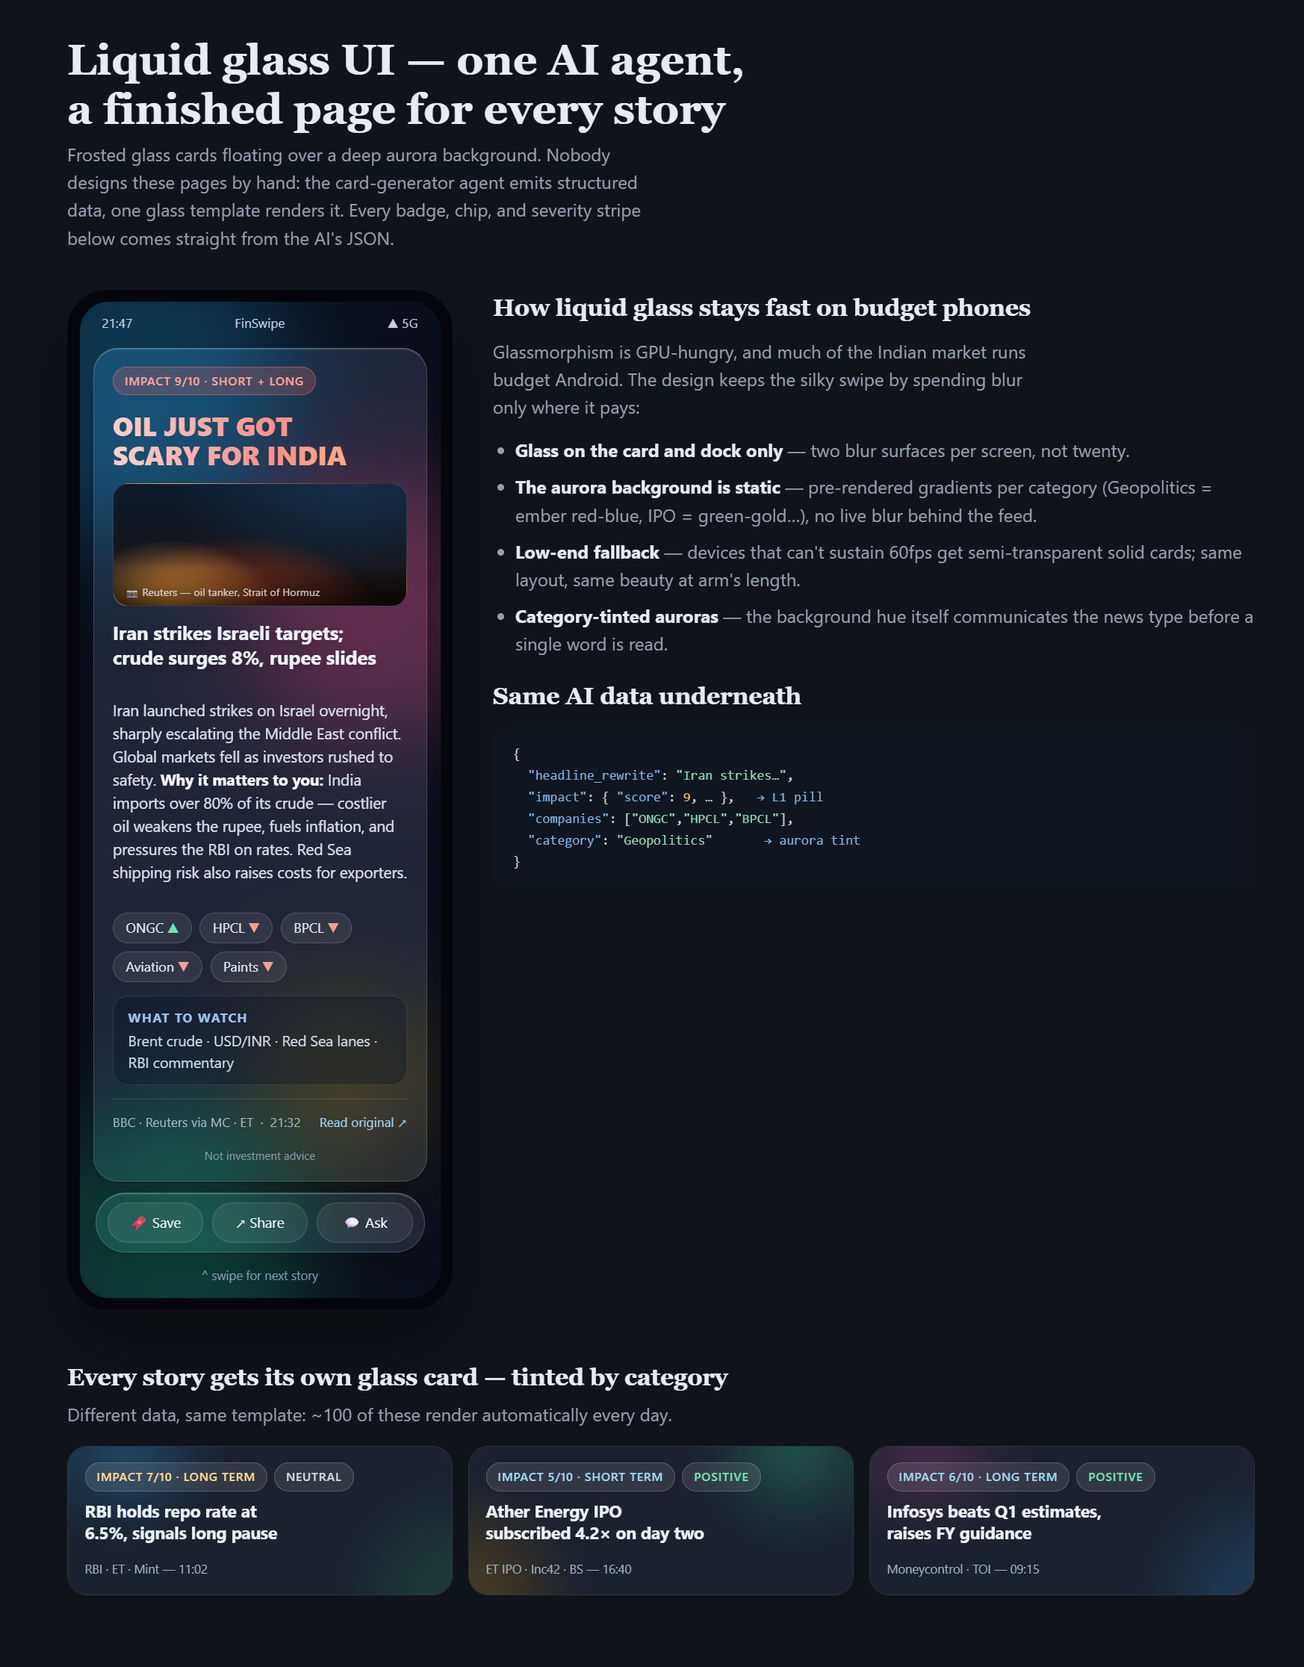
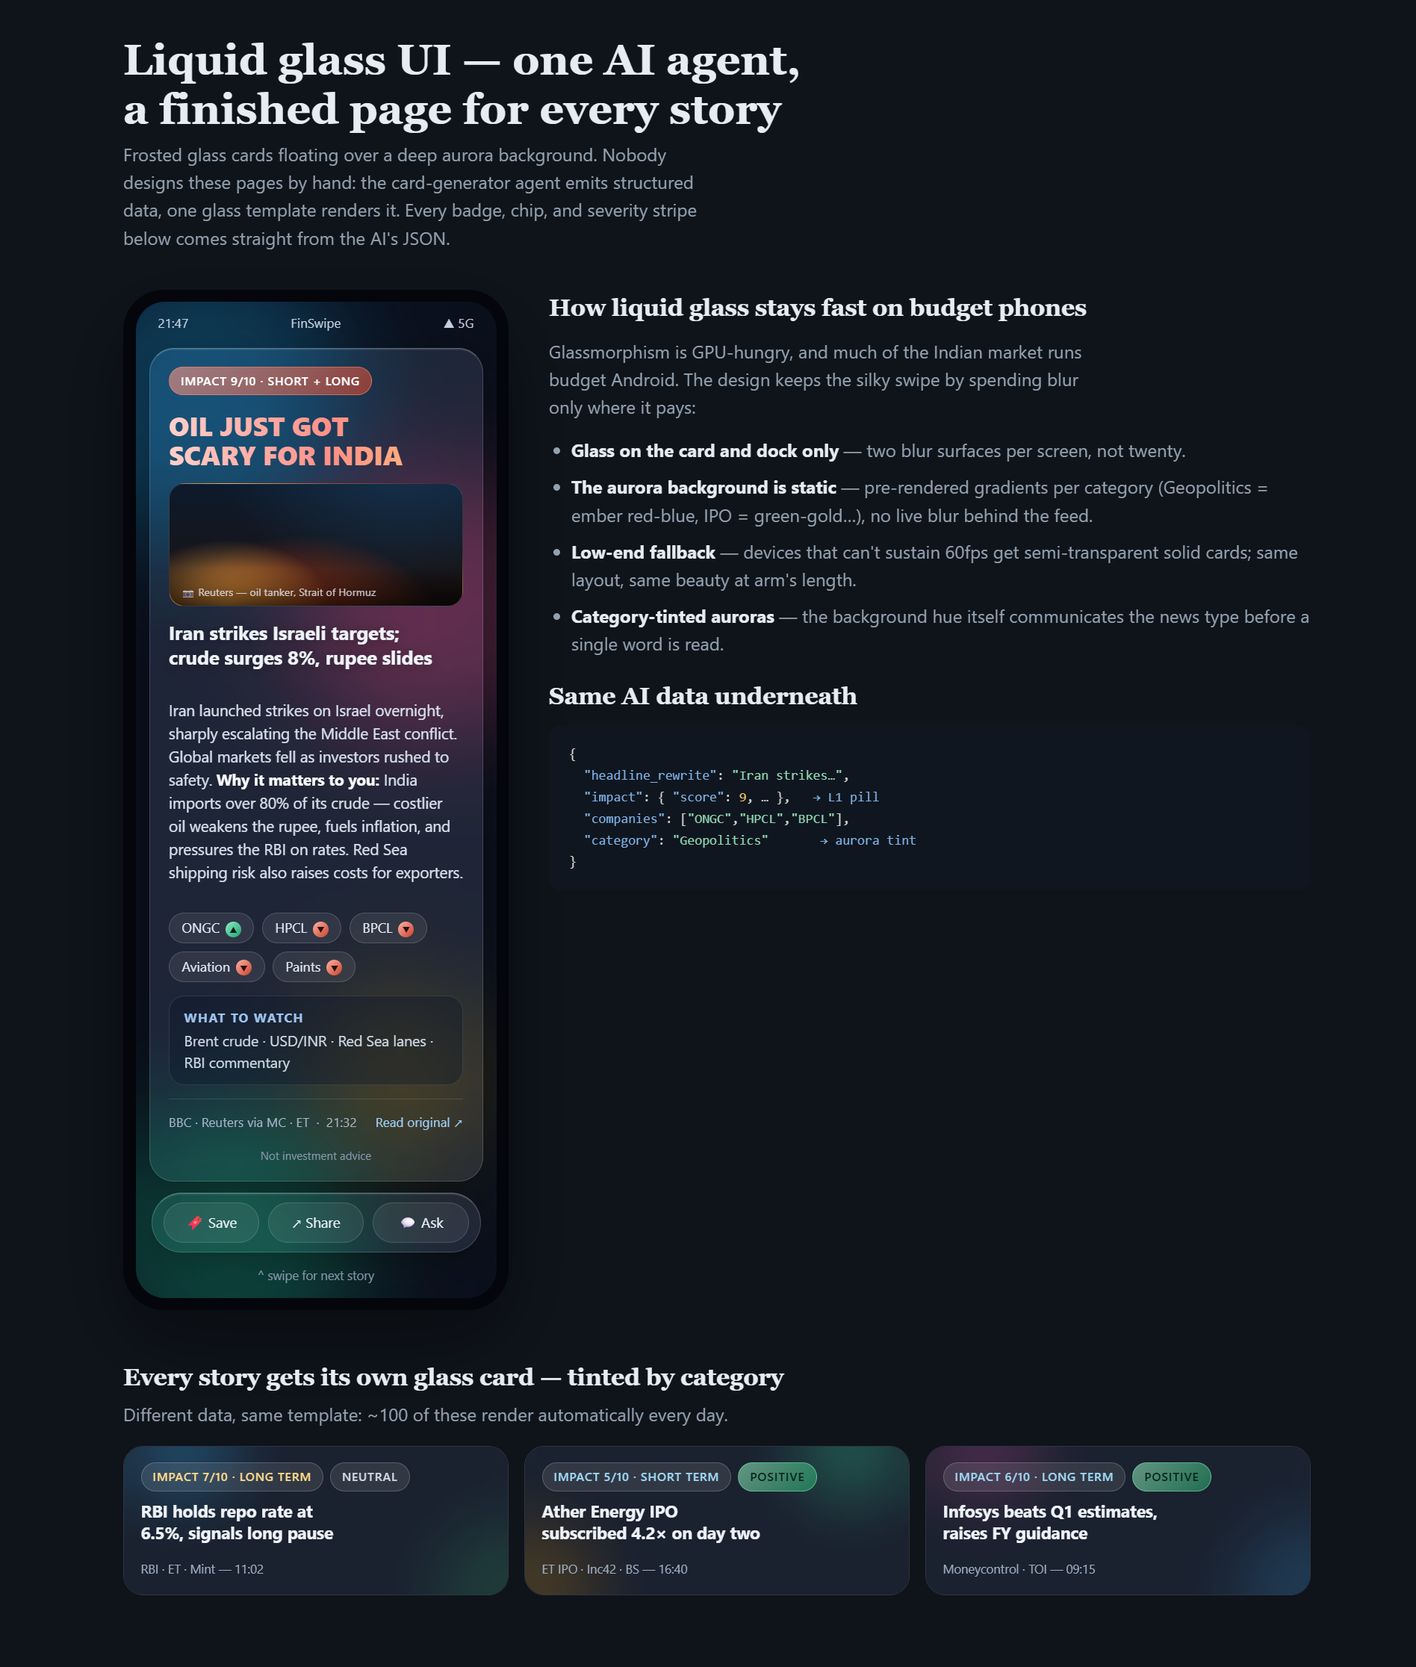
Add red/green gradient for market direction and on/off state to glass and minimal designs
Fixes a background-clip:text bug in the minimal design where the background
shorthand was resetting background-clip, rendering gradient text as solid
opaque blocks instead of colored glyphs. Switched to background-image.

diff --git a/docs/mockups/finswipe-minimal-mockup.html b/docs/mockups/finswipe-minimal-mockup.html
@@ -16,6 +16,7 @@
   :root[data-theme="light"]{ --paper:#F0F1ED; --paper-raised:#FFFFFF; --ink:#14181A; --ink-soft:#5B655F;
            --line:#D7DBD3; --accent:#1F5C4E; --accent-soft:#E6EEEA;
            --positive:#2F6B3A; --negative:#8A3324; }
+  :root{ --pos-a:#3FAE7C; --pos-b:#1f6e4e; --neg-a:#e0684a; --neg-b:#a83a24; }
 
   *{box-sizing:border-box}
   body{background:var(--paper); color:var(--ink); margin:0; padding:36px 22px 70px;
@@ -40,9 +41,14 @@
   .caption{text-align:center; color:var(--ink-soft); font-size:12px; margin-top:9px}
 
   /* ledger card (the story) */
-  .tick{border-left:3px solid var(--negative)}
+  .tick{position:relative}
+  .tick::before{content:""; position:absolute; left:0; top:2px; bottom:4px; width:3px;
+                background:linear-gradient(180deg, var(--neg-a), var(--neg-b))}
   .card{margin:2px 12px 10px; padding:12px 2px 4px; display:flex; flex-direction:column; gap:9px}
   .meta-row{font-size:10px; letter-spacing:.06em; text-transform:uppercase; color:var(--ink-soft); padding-left:9px}
+  .grad-txt{font-weight:800; -webkit-background-clip:text; background-clip:text; color:transparent}
+  .grad-txt.pos{background-image:linear-gradient(90deg, var(--pos-a), var(--pos-b))}
+  .grad-txt.neg{background-image:linear-gradient(90deg, var(--neg-a), var(--neg-b))}
   .hook{font-family:"Sitka Text","Iowan Old Style",Georgia,serif; font-size:19px; line-height:1.3;
         font-weight:600; padding-left:9px; margin:0; text-wrap:balance}
   .photo{height:96px; margin-left:9px; margin-right:2px; border:1px solid var(--line); position:relative; overflow:hidden;
@@ -53,7 +59,9 @@
   .summary{color:var(--ink-soft); font-size:12px; padding-left:9px}
   .summary b{color:var(--ink); font-weight:600}
   .chipline{padding-left:9px; font-size:11.5px; color:var(--ink-soft)}
-  .chipline .up{color:var(--positive)} .chipline .dn{color:var(--negative)}
+  .chipline .up, .chipline .dn{-webkit-background-clip:text; background-clip:text; color:transparent; font-weight:700}
+  .chipline .up{background-image:linear-gradient(90deg, var(--pos-a), var(--pos-b))}
+  .chipline .dn{background-image:linear-gradient(90deg, var(--neg-a), var(--neg-b))}
   .watch{margin:2px 9px 0; padding-top:9px; border-top:1px solid var(--line)}
   .watch b{display:block; font-size:10px; letter-spacing:.08em; text-transform:uppercase; color:var(--ink-soft); margin-bottom:4px; font-weight:600}
   .watch span{font-size:11.5px}
@@ -97,10 +105,11 @@
   .psec b.lab{display:block; font-size:10px; letter-spacing:.08em; text-transform:uppercase; color:var(--ink-soft); margin-bottom:8px; font-weight:600}
   .togrow{display:flex; justify-content:space-between; align-items:center; padding:7px 0; border-top:1px solid var(--line); font-size:12px}
   .togrow:first-of-type{border-top:none}
-  .tog{width:28px; height:15px; border:1px solid var(--line); position:relative}
-  .tog.on{background:var(--accent-soft); border-color:var(--accent)}
-  .tog::after{content:""; position:absolute; top:2px; left:2px; width:9px; height:9px; background:var(--ink-soft)}
-  .tog.on::after{left:auto; right:2px; background:var(--accent)}
+  .tog{width:28px; height:15px; border:1px solid var(--line); position:relative;
+       background:linear-gradient(90deg, var(--neg-a), var(--neg-b)); opacity:.3}
+  .tog.on{background:linear-gradient(90deg, var(--pos-a), var(--pos-b)); opacity:1; border-color:transparent}
+  .tog::after{content:""; position:absolute; top:2px; left:2px; width:9px; height:9px; background:var(--paper-raised)}
+  .tog.on::after{left:auto; right:2px}
   .signout{margin:22px 14px 4px; text-align:center; border:1px solid var(--negative); color:var(--negative); padding:9px 0; font-size:12px}
 
   /* admin */
@@ -110,19 +119,23 @@
   .abar .t{font-family:"Sitka Text","Iowan Old Style",Georgia,serif; font-weight:600; font-size:16px}
   .astatus{display:flex; gap:16px; flex-wrap:wrap; font-size:11.5px; color:var(--ink-soft)}
   .astatus .dot{display:inline-block; width:6px; height:6px; border-radius:50%; margin-right:6px}
-  .ok .dot{background:var(--positive)} .off .dot{background:var(--ink-soft)}
+  .ok .dot{background:linear-gradient(135deg, var(--pos-a), var(--pos-b))}
+  .off .dot{background:linear-gradient(135deg, var(--neg-a), var(--neg-b))}
   .agrid{display:flex; flex-wrap:wrap}
   .aq{flex:2 1 500px; padding:6px 20px 18px}
   .aq h3, .aside h3{font-size:10.5px; letter-spacing:.08em; text-transform:uppercase; color:var(--ink-soft); font-weight:600; margin:16px 0 8px}
   .qrow{display:flex; gap:14px; align-items:center; padding:12px 0; border-top:1px solid var(--line); flex-wrap:wrap}
   .qrow.flagged{background:color-mix(in srgb, var(--negative) 7%, transparent); margin:0 -20px; padding-left:20px; padding-right:20px}
   .qrow .imp{font-size:10.5px; color:var(--ink-soft); white-space:nowrap; min-width:64px}
-  .qrow .imp.hi{color:var(--negative); font-weight:600}
+  .qrow .imp.hi{font-weight:800; -webkit-background-clip:text; background-clip:text; color:transparent;
+                background-image:linear-gradient(90deg, var(--neg-a), var(--neg-b))}
   .qrow .htext{flex:1; min-width:220px; font-size:12.5px}
   .qrow .htext small{display:block; color:var(--ink-soft); font-size:10.5px; margin-top:2px}
   .qbtn{font-size:10.5px; padding:5px 10px; border:1px solid var(--line); color:var(--ink-soft); white-space:nowrap}
-  .qbtn.ap{border-color:var(--accent); color:var(--accent)}
-  .qbtn.rj{border-color:var(--negative); color:var(--negative)}
+  .qbtn.ap{border-color:var(--pos-b); font-weight:700; -webkit-background-clip:text; background-clip:text; color:transparent;
+           background-image:linear-gradient(90deg, var(--pos-a), var(--pos-b))}
+  .qbtn.rj{border-color:var(--neg-b); font-weight:700; -webkit-background-clip:text; background-clip:text; color:transparent;
+           background-image:linear-gradient(90deg, var(--neg-a), var(--neg-b))}
   .aside{flex:1 1 240px; padding:6px 20px 18px; border-left:1px solid var(--line); min-width:240px}
   .stat{display:flex; justify-content:space-between; font-size:12px; padding:5px 0; border-top:1px solid var(--line)}
   .stat:first-of-type{border-top:none}
@@ -134,7 +147,7 @@
 <div class="wrap">
   <p class="eyebrow">Alternate direction</p>
   <h1>FinSwipe, minimalist — a financial ledger, not a lightbox</h1>
-  <p class="sub">Same product, opposite instinct. No blur, no aurora, no colour-by-category. Sentiment reads as a single hairline tick; numbers sit in a monospace column like a statement; the news itself — a serif hook, set quietly — is the only thing asked to carry weight.</p>
+  <p class="sub">Same product, opposite instinct. No blur, no aurora, no colour-by-category. The one exception: a red/green gradient, spent only on market direction and on/off state — a gradient tick, a gradient number, never a filled shape. Numbers sit in a monospace column like a statement; the news itself — a serif hook, set quietly — is the only thing asked to carry weight.</p>
 
   <div class="row">
     <!-- CARD / FEED -->
@@ -142,7 +155,7 @@
       <div class="phone"><div class="screen">
         <div class="statusbar"><span>09:41</span><span>FinSwipe</span><span>5G</span></div>
         <div class="card tick">
-          <div class="meta-row mono">Impact 9/10 · Short + Long</div>
+          <div class="meta-row mono"><span class="grad-txt neg">Impact 9/10</span> · Short + Long</div>
           <p class="hook">Oil just got scary for India.</p>
           <div class="photo"></div>
           <p class="headline">Iran strikes Israeli targets; crude surges 8%, rupee slides</p>
@@ -189,10 +202,10 @@
         <div class="apphead"><span class="t">Saved</span><span class="n mono">12 stories</span></div>
         <div class="search">Search your saved news…</div>
         <div>
-          <div class="srow"><div class="h">Oil just got scary for India</div><div class="m mono"><span>Impact 9/10</span><span>BBC · ET — 21:32</span></div></div>
+          <div class="srow"><div class="h">Oil just got scary for India</div><div class="m mono"><span class="grad-txt neg">Impact 9/10</span><span>BBC · ET — 21:32</span></div></div>
           <div class="srow"><div class="h">RBI stands still, markets exhale</div><div class="m mono"><span>Impact 7/10</span><span>RBI · Mint — 11:02</span></div></div>
-          <div class="srow"><div class="h">Ather's IPO is running hot</div><div class="m mono"><span>Impact 5/10</span><span>ET IPO · Inc42</span></div></div>
-          <div class="srow"><div class="h">Infosys just raised its own bar</div><div class="m mono"><span>Impact 6/10</span><span>Moneycontrol</span></div></div>
+          <div class="srow"><div class="h">Ather's IPO is running hot</div><div class="m mono"><span class="grad-txt pos">Impact 5/10</span><span>ET IPO · Inc42</span></div></div>
+          <div class="srow"><div class="h">Infosys just raised its own bar</div><div class="m mono"><span class="grad-txt pos">Impact 6/10</span><span>Moneycontrol</span></div></div>
           <div class="srow"><div class="h">Inflation cooled more than expected</div><div class="m mono"><span>Impact 6/10</span><span>ET Economy</span></div></div>
         </div>
         <div class="fine">Swipe a row left to remove</div>
@@ -219,7 +232,7 @@
           <b class="lab">Alerts</b>
           <div class="togrow"><span>Market-moving alerts</span><span class="tog on"></span></div>
           <div class="togrow"><span>My stocks &amp; sectors</span><span class="tog on"></span></div>
-          <div class="togrow"><span>Quiet hours 22:00–07:00</span><span class="tog on"></span></div>
+          <div class="togrow"><span>Quiet hours 22:00–07:00</span><span class="tog"></span></div>
         </div>
         <div class="psec">
           <b class="lab">App</b>

diff --git a/docs/mockups/finswipe-screens-mockup.html b/docs/mockups/finswipe-screens-mockup.html
@@ -8,6 +8,7 @@
   }
   :root[data-theme="dark"]{ --bg:#0f141b; --ink:#e6ecf2; --muted:#93a1af; --line:#27313c; }
   :root[data-theme="light"]{ --bg:#eef0f4; --ink:#1d2530; --muted:#5d6b7a; --line:#dde3e2; }
+  :root{ --pos-a:#8ef0c2; --pos-b:#1f9e6e; --neg-a:#ffb3a4; --neg-b:#c8402c; }
 
   *{box-sizing:border-box}
   body{background:var(--bg); color:var(--ink); font:16px/1.55 "Segoe UI",system-ui,sans-serif; margin:0; padding:32px 20px 64px}
@@ -65,6 +66,8 @@
   .shook{font-weight:700; font-size:13.5px; line-height:1.3}
   .smeta{display:flex; gap:8px; align-items:center; font-size:10.5px; color:#9fb0c2}
   .impill{font-size:9.5px; letter-spacing:.05em; text-transform:uppercase; padding:2px 8px; border-radius:999px; background:rgba(255,255,255,.10); border:1px solid rgba(255,255,255,.16); color:#ffd98a}
+  .impill.neg{background:linear-gradient(135deg, rgba(255,150,130,.55), rgba(200,60,35,.6)); border-color:rgba(255,140,120,.5); color:#fff}
+  .impill.pos{background:linear-gradient(135deg, rgba(160,245,200,.55), rgba(35,160,105,.6)); border-color:rgba(120,230,170,.5); color:#06231a}
   .swipetip{text-align:center; color:#67788c; font-size:10.5px; margin-top:10px}
 
   /* profile */
@@ -76,8 +79,9 @@
   .pcard{margin:0 10px 10px; padding:12px 14px}
   .pcard b{font-size:11px; letter-spacing:.07em; text-transform:uppercase; color:#9cc3ef; display:block; margin-bottom:8px}
   .togrow{display:flex; justify-content:space-between; align-items:center; font-size:12.5px; padding:5px 0; color:#dbe5ef}
-  .tog{width:34px; height:19px; border-radius:999px; background:rgba(255,255,255,.15); position:relative}
-  .tog.on{background:#2fc7a0}
+  .tog{width:34px; height:19px; border-radius:999px; position:relative;
+       background:linear-gradient(135deg, rgba(255,150,130,.4), rgba(200,60,35,.4))}
+  .tog.on{background:linear-gradient(135deg, #8ef0c2, #1f9e6e)}
   .tog::after{content:""; position:absolute; top:2px; left:2px; width:15px; height:15px; border-radius:50%; background:#fff}
   .tog.on::after{left:auto; right:2px}
   .signout{margin:auto 10px 6px; text-align:center; border-radius:999px; padding:9px 0; font-size:13px; color:#ffb0aa; background:rgba(180,50,45,.18); border:1px solid rgba(255,120,110,.35)}
@@ -89,7 +93,8 @@
   .astatus{display:flex; gap:8px; flex-wrap:wrap}
   .apill{font-size:11px; padding:4px 11px; border-radius:999px; border:1px solid #2c3d58; color:#c9d6e6}
   .apill .dot{display:inline-block; width:7px; height:7px; border-radius:50%; margin-right:6px}
-  .ok .dot{background:#43e0a8} .warn .dot{background:#f5c169} .off .dot{background:#697b93}
+  .ok .dot{background:linear-gradient(135deg, #8ef0c2, #1f9e6e)} .warn .dot{background:#f5c169}
+  .off .dot{background:linear-gradient(135deg, #ffb3a4, #c8402c)}
   .agrid{display:flex; gap:0; flex-wrap:wrap}
   .aq{flex:2 1 480px; padding:14px 16px; min-width:320px}
   .aq h3, .aside h3{font-size:12px; letter-spacing:.07em; text-transform:uppercase; color:#8fb4e0; margin:0 0 10px}
@@ -99,8 +104,8 @@
   .qrow .htext{flex:1; min-width:180px; font-size:13px}
   .qrow .htext small{display:block; color:#8b9cb1; font-size:10.5px}
   .qbtn{font-size:11px; padding:5px 11px; border-radius:8px; border:1px solid #2c3d58; color:#c9d6e6; white-space:nowrap}
-  .qbtn.ap{background:#123528; color:#6fe8b5; border-color:#1e5a43}
-  .qbtn.rj{background:#3a1416; color:#ff9d96; border-color:#5c2224}
+  .qbtn.ap{background:linear-gradient(135deg, rgba(160,245,200,.28), rgba(35,160,105,.28)); color:#8ef0c2; border-color:rgba(90,230,180,.45)}
+  .qbtn.rj{background:linear-gradient(135deg, rgba(255,150,130,.28), rgba(200,60,35,.28)); color:#ff9d96; border-color:rgba(255,120,110,.45)}
   .flagged{outline:1px solid #6e2325; background:#160d12}
   .aside{flex:1 1 240px; padding:14px 16px; border-left:1px solid #223047; min-width:240px}
   .stat{display:flex; justify-content:space-between; font-size:12.5px; padding:4px 0; color:#c9d6e6}
@@ -154,7 +159,7 @@
           <div class="slist">
             <div class="scard glass geo">
               <div class="shook">Oil just got scary for India</div>
-              <div class="smeta"><span class="impill">Impact 9/10</span><span>BBC · ET — today 21:32</span></div>
+              <div class="smeta"><span class="impill neg">Impact 9/10</span><span>BBC · ET — today 21:32</span></div>
             </div>
             <div class="scard glass eco">
               <div class="shook">RBI stands still, markets exhale</div>
@@ -162,11 +167,11 @@
             </div>
             <div class="scard glass ipo">
               <div class="shook">Ather's IPO is running hot</div>
-              <div class="smeta"><span class="impill">Impact 5/10</span><span>ET IPO · Inc42 — yesterday</span></div>
+              <div class="smeta"><span class="impill pos">Impact 5/10</span><span>ET IPO · Inc42 — yesterday</span></div>
             </div>
             <div class="scard glass corp">
               <div class="shook">Infosys just raised its own bar</div>
-              <div class="smeta"><span class="impill">Impact 6/10</span><span>Moneycontrol — Tue</span></div>
+              <div class="smeta"><span class="impill pos">Impact 6/10</span><span>Moneycontrol — Tue</span></div>
             </div>
             <div class="scard glass eco">
               <div class="shook">Inflation cooled more than expected</div>
@@ -201,7 +206,7 @@
             <b>Alerts</b>
             <div class="togrow"><span>Market-moving alerts</span><span class="tog on"></span></div>
             <div class="togrow"><span>My stocks &amp; sectors</span><span class="tog on"></span></div>
-            <div class="togrow"><span>Quiet hours 22:00–07:00</span><span class="tog on"></span></div>
+            <div class="togrow"><span>Quiet hours 22:00–07:00</span><span class="tog"></span></div>
           </div>
           <div class="pcard glass">
             <b>App</b>

diff --git a/docs/mockups/finswipe-card-mockup.html b/docs/mockups/finswipe-card-mockup.html
@@ -9,6 +9,8 @@
   }
   :root[data-theme="dark"]{ --bg:#0f141b; --ink:#e6ecf2; --muted:#93a1af; --panel:#171f28; --line:#27313c; --accent:#3ecfaa; }
   :root[data-theme="light"]{ --bg:#eef0f4; --ink:#1d2530; --muted:#5d6b7a; --panel:#ffffff; --line:#dde3e2; --accent:#0e7c66; }
+  /* the one deliberate use of color: market direction, never decorative */
+  :root{ --pos-a:#8ef0c2; --pos-b:#1f9e6e; --neg-a:#ffb3a4; --neg-b:#c8402c; }
 
   *{box-sizing:border-box}
   body{background:var(--bg); color:var(--ink); font:16px/1.55 "Segoe UI",system-ui,-apple-system,sans-serif; margin:0; padding:32px 20px 64px}
@@ -39,9 +41,8 @@
   .toprow{display:flex; gap:7px; align-items:center; flex-wrap:wrap}
   .pill{font-size:10.5px; letter-spacing:.06em; text-transform:uppercase; padding:4px 10px; border-radius:999px; font-weight:600;
         background:rgba(255,255,255,.10); border:1px solid rgba(255,255,255,.18); backdrop-filter:blur(8px); -webkit-backdrop-filter:blur(8px)}
-  .p-sev{color:#ffa39d; border-color:rgba(255,120,110,.4); background:rgba(180,40,40,.22)}
+  .p-sev{color:#fff; border-color:rgba(255,140,120,.5); background:linear-gradient(135deg, rgba(255,150,130,.55), rgba(200,60,35,.6))}
   .p-cat{color:#ffd98a; border-color:rgba(255,200,100,.35); background:rgba(160,110,20,.20)}
-  .p-neg{color:#ffa39d}
   .p-horizon{color:#9fd8f5}
   .hook{font-size:24px; font-weight:800; line-height:1.1; letter-spacing:-.01em; text-transform:uppercase; margin:2px 0 0;
         background:linear-gradient(92deg,#ffd1cb,#ff8f86 55%,#ffc37a); -webkit-background-clip:text; background-clip:text; color:transparent; text-wrap:balance}
@@ -58,7 +59,9 @@
   .chips{display:flex; flex-wrap:wrap; gap:7px}
   .chip{border-radius:999px; padding:4px 11px; font-size:12px; color:#e2eaf3;
         background:rgba(255,255,255,.08); border:1px solid rgba(255,255,255,.15)}
-  .chip .up{color:#6fe8b5} .chip .dn{color:#ff9d96}
+  .arrow{width:14px; height:14px; border-radius:50%; display:inline-flex; align-items:center; justify-content:center; font-size:8px; margin-left:2px}
+  .arrow.up{background:linear-gradient(135deg,#8ef0c2,#1f9e6e); color:#06231a}
+  .arrow.dn{background:linear-gradient(135deg,#ffb3a4,#c8402c); color:#2e0d06}
   .watch{border-radius:14px; padding:10px 13px; font-size:13px; color:#cfdae6;
          background:rgba(10,20,40,.35); border:1px solid rgba(255,255,255,.10)}
   .watch b{color:#fff; font-size:11.5px; letter-spacing:.07em; text-transform:uppercase; display:block; margin-bottom:3px; color:#9cc3ef}
@@ -95,7 +98,8 @@
   .mini .toprow{gap:6px}
   .mini .headline{font-size:15px; text-shadow:none}
   .mini .foot{color:#9fb0c2; font-size:11px; margin-top:auto; padding-top:6px}
-  .p-l2{color:#ffd98a} .p-l3{color:#9fd8f5} .p-pos{color:#6fe8b5} .p-neu{color:#cfd9e4}
+  .p-l2{color:#ffd98a} .p-l3{color:#9fd8f5} .p-neu{color:#cfd9e4}
+  .p-pos{color:#06231a; border-color:rgba(120,230,170,.5); background:linear-gradient(135deg, rgba(160,245,200,.55), rgba(35,160,105,.6))}
 </style>
 
 <div class="wrap">
@@ -117,11 +121,11 @@
             <div class="headline">Iran strikes Israeli targets; crude surges 8%, rupee slides</div>
             <p class="summary">Iran launched strikes on Israel overnight, sharply escalating the Middle East conflict. Global markets fell as investors rushed to safety. <b>Why it matters to you:</b> India imports over 80% of its crude — costlier oil weakens the rupee, fuels inflation, and pressures the RBI on rates. Red Sea shipping risk also raises costs for exporters.</p>
             <div class="chips">
-              <span class="chip">ONGC <span class="up">▲</span></span>
-              <span class="chip">HPCL <span class="dn">▼</span></span>
-              <span class="chip">BPCL <span class="dn">▼</span></span>
-              <span class="chip">Aviation <span class="dn">▼</span></span>
-              <span class="chip">Paints <span class="dn">▼</span></span>
+              <span class="chip">ONGC <span class="arrow up">▲</span></span>
+              <span class="chip">HPCL <span class="arrow dn">▼</span></span>
+              <span class="chip">BPCL <span class="arrow dn">▼</span></span>
+              <span class="chip">Aviation <span class="arrow dn">▼</span></span>
+              <span class="chip">Paints <span class="arrow dn">▼</span></span>
             </div>
             <div class="watch"><b>What to watch</b>Brent crude · USD/INR · Red Sea lanes · RBI commentary</div>
             <div class="srcrow">
